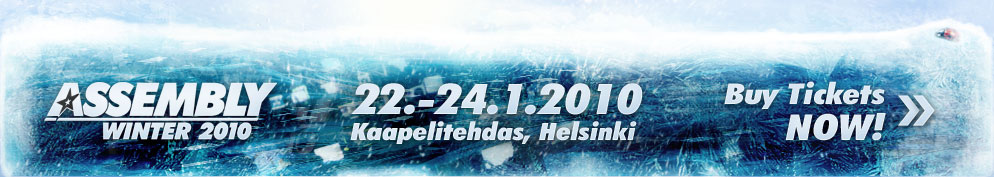
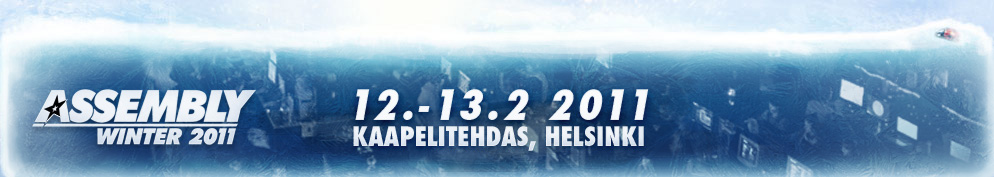
winter11 header change, new ticket sales button, removed forums from the topna

diff --git a/extensions/asm.winter11/src/asm/winter11/static/style.css b/extensions/asm.winter11/src/asm/winter11/static/style.css
@@ -23,7 +23,51 @@ span.date {color:#6e8f10;}
 #footer #banner-bottom {margin:35px 180px 0 170px;}
 h1#home {margin:0;text-indent:-9999cm; border:0;}
 h1#home a {width:300px; height:177px; display:block; float:left; text-indent:-9999cm;}
-#tickets {width:300px; height:177px; display:block; float:right; text-indent:-9999cm;}
+#tickets {
+width:190px; 
+height:30px; 
+display:block;
+float:right; 
+background:#fff; 
+margin:80px -5px 0 0;
+padding:20px 15px;
+-webkit-border-bottom-left-radius: 3px 3px;
+-webkit-border-top-left-radius: 3px 3px;
+-webkit-box-shadow:-4px 3px 5px #1d466d;
+border-bottom:1px solid #d9d9d9;
+background-image:
+-webkit-gradient(
+  linear,
+  left bottom,
+  left top,
+  color-stop(0, rgb(209,209,209)),
+  color-stop(0.12, rgb(255,255,255)));
+background-image:  
+-moz-linear-gradient(
+  center bottom,
+  rgb(209,209,209) 0%,
+  rgb(255,255,255) 12%));
+-webkit-transition:-webkit-box-shadow 0.25s linear; 
+}
+
+#tickets a {
+font-size:17px;
+font-weight:bold;
+line-height:1;
+text-decoration:none;
+color:#333;
+padding-left:50px;
+display:block;
+text-shadow:0 0 1px #fff;
+background:url(images/ticket-icon.png) no-repeat;
+}
+
+#tickets:hover {
+-webkit-box-shadow:0 0 10px #00beff;
+-moz-box-shadow:0 0 10px #00beff;
+-webkit-transition:-webkit-box-shadow 0.25s linear;
+}
+
 #banner-top {float:left; margin:90px 0 0 95px;}
 #button-top-1, #button-top-2  {margin: 82px 2px 0 0px; width:157px; height:70px; float:right; padding:2px;}
 #button-top-2 {margin-right:80px; width:130px;}
